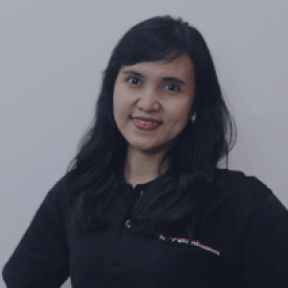
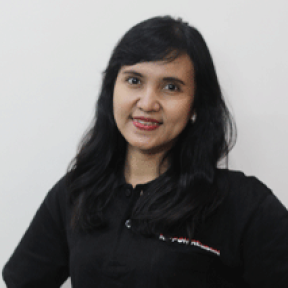
to detail product

diff --git a/src/component/Dealers.js b/src/component/Dealers.js
@@ -37,6 +37,7 @@ function Dealers() {
       telp: "+62315328700",
       address:
         "Jl. Bubutan No.81, Bubutan, Kec. Bubutan, Kota SBY, Jawa Timur 60174",
+      maps: "https://goo.gl/maps/g97nypoWpXNou9AH8",
     },
     {
       logo: icEmpatJaya,
@@ -44,6 +45,7 @@ function Dealers() {
       telp: "+62313521388",
       address:
         "Jl. Dupak No.152 A, Gundih, Kec. Bubutan, Kota SBY, Jawa Timur 60172",
+      maps: "https://g.page/empat-jaya?share",
     },
     {
       logo: icBentang,
@@ -51,6 +53,7 @@ function Dealers() {
       telp: "+628113526178",
       address:
         "Jl. Margomulyo No.46, Greges, Asemrowo, Surabaya City, East Java 60183",
+      maps: "https://g.page/wireropebentangpersada?share",
     },
     {
       logo: icLajuJaya,
@@ -58,6 +61,7 @@ function Dealers() {
       telp: "+62315036015",
       address:
         "Jl. Kapas Krampung No.198-A, Ploso, Kec. Tambaksari, Kota SBY, Jawa Timur 60133",
+      maps: "https://goo.gl/maps/14N7SgekUcZWgEEv8",
     },
   ];
 
@@ -68,6 +72,7 @@ function Dealers() {
       telp: "+62271664997",
       address:
         "Jl. Suryopranoto No.14, Kepatihan Wetan, Kec. Jebres, Kota Surakarta, Jawa Tengah 57129",
+      maps: "https://goo.gl/maps/ZGP5Z9saNdRpJfBz8",
     },
     {
       logo: icMayar,
@@ -75,6 +80,7 @@ function Dealers() {
       telp: "+6281329869226",
       address:
         "Jl. Poncowinatan No.49, Gowongan, Kec. Jetis, Kota Yogyakarta, Daerah Istimewa Yogyakarta 55233",
+      maps: "https://goo.gl/maps/X6R4psocV6xDHpp88",
     },
   ];
 
@@ -85,6 +91,7 @@ function Dealers() {
       telp: "-",
       address:
         "Jl. Pasar Baru, Kertak Baru Ilir, Kec. Banjarmasin Tengah, Banjarmasin, Kalimantan Selatan 70234",
+      maps: "https://goo.gl/maps/jot1FEnQXWgBmS1H7",
     },
     {
       logo: icTools,
@@ -92,6 +99,7 @@ function Dealers() {
       telp: "+625416294516",
       address:
         "Jl. Untung Suropati No.38, Karang Asam Ulu, Kec. Sungai Kunjang, Samarinda, Kalimantan Timur 75243",
+      maps: "https://goo.gl/maps/KpuK5uTY7ihEPeqh9",
     },
     {
       logo: icTokoMulya,
@@ -99,6 +107,7 @@ function Dealers() {
       telp: "+62541741192",
       address:
         "Jl. Gajah Mada No.35, Ps. Pagi, Kec. Samarinda Kota, Kota Samarinda, Kalimantan Timur 75111",
+      maps: "https://goo.gl/maps/7Kw86rVsSiP1XCJE6",
     },
   ];
 
@@ -109,6 +118,7 @@ function Dealers() {
       telp: "+624113616551",
       address:
         "Jl. Dr. Wahidin Sudiro Husodo No.109, Ende, Kec. Wajo, Kota Makassar, Sulawesi Selatan 90156",
+      maps: "https://goo.gl/maps/rWRsuoKx6EMvXA426",
     },
     {
       logo: icTunasBaja,
@@ -116,6 +126,7 @@ function Dealers() {
       telp: "+624113623695",
       address:
         "Jl. Muna No.12, Melayu, Kec. Wajo, Kota Makassar, Sulawesi Selatan 90171",
+      maps: "https://goo.gl/maps/1Qh94orthje3U9oN9",
     },
   ];
   const Bali = [
@@ -125,6 +136,7 @@ function Dealers() {
       telp: "+623619073369",
       address:
         "Jl. Gatot Subroto Barat No.305D, Pemecutan Kaja, Kec. Denpasar Utara, Kota Denpasar, Bali 80111",
+      maps: "https://goo.gl/maps/X371TfsJkArs5Nmr8",
     },
     {
       logo: icYang,
@@ -132,16 +144,17 @@ function Dealers() {
       telp: "+623618495363",
       address:
         "Jl. Mahendradatta Selatan No.99, Padangsambian, Kec. Denpasar Bar., Kota Denpasar, Bali 80119",
+      maps: "https://goo.gl/maps/Xqek9immhP56qxsb9",
     },
   ];
 
-  const toLocation = (props) =>{
-    window.open('https://www.google.co.id/maps/search/'+ props)
-  }
+  const toLocation = (maps) => {
+    window.open(maps);
+  };
 
   return (
     <div>
-      <Header currentPage="Authorized Dealer"/>
+      <Header currentPage="Authorized Dealer" />
       <div className="cover">
         <h1 className="cover-title">Authorized Dealer</h1>
       </div>
@@ -174,8 +187,12 @@ function Dealers() {
                       <div className="item-address">{data.address}</div>
                     </div>
 
-                    <p className="item-location" onClick={() =>toLocation(data.address)}>
-                      Lihat Lokasi Dealer <img src={direction} alt="icon direction"/>
+                    <p
+                      className="item-location"
+                      onClick={() => toLocation(data.maps)}
+                    >
+                      Lihat Lokasi Dealer{" "}
+                      <img src={direction} alt="icon direction" />
                     </p>
                   </Paper>
                 </Grid>
@@ -211,8 +228,12 @@ function Dealers() {
                       <div className="item-address">{data.address}</div>
                     </div>
 
-                    <p className="item-location" onClick={() =>toLocation(data.address)}>
-                      Lihat Lokasi Dealer <img src={direction} alt="icon direction"/>
+                    <p
+                      className="item-location"
+                      onClick={() => toLocation(data.maps)}
+                    >
+                      Lihat Lokasi Dealer{" "}
+                      <img src={direction} alt="icon direction" />
                     </p>
                   </Paper>{" "}
                 </Grid>
@@ -248,9 +269,13 @@ function Dealers() {
                       <div className="item-address">{data.address}</div>
                     </div>
 
-                    <p className="item-location" onClick={() =>toLocation(data.address)}>
+                    <p
+                      className="item-location"
+                      onClick={() => toLocation(data.maps)}
+                    >
                       {" "}
-                      Lihat Lokasi Dealer <img src={direction} alt="icon direction"/>
+                      Lihat Lokasi Dealer{" "}
+                      <img src={direction} alt="icon direction" />
                     </p>
                   </Paper>
                 </Grid>
@@ -286,9 +311,13 @@ function Dealers() {
                       <div className="item-address">{data.address}</div>
                     </div>
 
-                    <p className="item-location" onClick={() =>toLocation(data.address)}>
+                    <p
+                      className="item-location"
+                      onClick={() => toLocation(data.maps)}
+                    >
                       {" "}
-                      Lihat Lokasi Dealer <img src={direction} alt="icon direction"/>
+                      Lihat Lokasi Dealer{" "}
+                      <img src={direction} alt="icon direction" />
                     </p>
                   </Paper>{" "}
                 </Grid>
@@ -324,9 +353,13 @@ function Dealers() {
                       <div className="item-address">{data.address}</div>
                     </div>
 
-                    <p className="item-location" onClick={() =>toLocation(data.address)}>
+                    <p
+                      className="item-location"
+                      onClick={() => toLocation(data.maps)}
+                    >
                       {" "}
-                      Lihat Lokasi Dealer <img src={direction} alt="icon direction"/>
+                      Lihat Lokasi Dealer{" "}
+                      <img src={direction} alt="icon direction" />
                     </p>
                   </Paper>{" "}
                 </Grid>

diff --git a/src/component/Home.js b/src/component/Home.js
@@ -1,7 +1,7 @@
 import React, { useState } from "react";
 import Header from "./Header";
 import Footer from "./Footer";
-import { Grid, makeStyles, Card,} from "@material-ui/core";
+import { Grid, makeStyles, Card } from "@material-ui/core";
 import ArrowForwardIosRoundedIcon from "@material-ui/icons/ArrowForwardIosRounded";
 import ArrowBackIosRoundedIcon from "@material-ui/icons/ArrowBackIosRounded";
 import { Fade } from "react-reveal";
@@ -14,6 +14,7 @@ import borDuduk from "./../img/bor_duduk.png";
 import pakingMesin from "./../img/paking_mesin.png";
 import pakingMesinSquare from "./../img/paking_mesin_square.png";
 import kawatLasSquare from "./../img/kawat_las_square.png";
+import kabelLas from './../img/kabel_las 1.png'
 import BatuPolesSquare from "./../img/batu_poles_square.png";
 import Carousel from "react-material-ui-carousel";
 import icEmpat from "./../img/icEmpat.png";
@@ -22,6 +23,7 @@ import icCentralindo from "./../img/icCentralindo.png";
 import icManyar from "./../img/icManyar.png";
 import icAgung from "./../img/icAgung.png";
 import icSurya from "./../img/icSurya.png";
+import { useHistory } from "react-router-dom";
 
 function Home() {
   const [slideCount, setSlideCount] = useState(0);
@@ -32,19 +34,22 @@ function Home() {
       desc:
         "Paking Gasket TBA adalah sebuah bahan kertas yang terbuat dari kertas khusus gasket tipe cair (Liquid Gasket), oksirne silicone yang bermutu tinggi. Fungsi dari paking gasket TBA adalah untuk mengontrol kebocoran, bukan untuk mencegah seluruh kebocoran ",
       img: pakingMesinSquare,
+      brand: "Klinger",
     },
 
     {
-      name: "Kawat Las",
+      name: "Kabel Las",
       desc:
-        "Produk- produk ROHA mencakup peralatan dan perlengkapan las. Produk ROHA adalah produk berkualitas dengan harga yang sangat terjangkau. \n \n Jajaran produk ROHA terus diperbarui dengan quality control yang tinggi, agar kinerja dan kualitas produk tetap terjaga dan mampu memberikan hasil yang maksimal.",
-      img: kawatLasSquare,
+        "Dengan barisan lengkap produk kabel las yang tahan lama dan dapat diandalkan, kami menyediakan produk yang cocok dihampir seluruh pengguna dan tingkat tekanan. Berbagai pilihan melengkapi dengan fitting yang sama macamnya dan kuat, yang dibuat dengan akurat dan diproduksi menjadi kualitas terbaik. Tersedia dalam berbagai ukuran dan konfigurasi.",
+      img: kabelLas,
+      brand:'Aulektro Deroflex'
     },
     {
       name: "Batu Poles",
       desc:
         "Sebagai produsen terkemuka yang berasal dari Jerman, dalam hal memoles, Langsol telah menjadi produk unggulan untuk pengerjaan permukaan dengan kualitas tinggi seperti logam, coats, dan plastik.  \n Produk ini menyediakan berbagai macam produk yang digunakan untuk memoles berbagai jenis bahan industri, mulai dari bahan stainless stell, alumunium, logam, logam non-ferrous, kayu clear coat hingga logam clear coat.",
       img: BatuPolesSquare,
+      brand: "Langsol",
     },
   ];
 
@@ -103,6 +108,13 @@ function Home() {
         "Kami telah mempercayakan semua kebutuhan konstruksi kami kepada PT UJA sejak dulu karena kualitas yang masih tetap terjaga",
     },
   ];
+  function handleScroll() {
+    window.scroll({
+      top: document.body.offsetHeight,
+      left: 0,
+      behavior: "smooth",
+    });
+  }
 
   return (
     <div>
@@ -124,7 +136,9 @@ function Home() {
                 Taiwan, Australia, Italia dan tidak menutup kemungkinan adanya
                 pemasok dari negara negara lain nantinya
               </p>
-              <p className="cover-call">Hubungi Kami</p>
+              <p className="cover-call" onClick={() => handleScroll()}>
+                Hubungi Kami
+              </p>
             </Fade>
           </Grid>
           <Grid item md={2} sm={6} sx={12}>
@@ -188,15 +202,9 @@ function Home() {
 
       {/* product */}
       <p className="product">Produk Kami</p>
-      {/* <Slide direction="left"> */}
-
-      {/* {product.map((item, i) => ( */}
       <Fade left>
         <ItemProduct item={product[slideCount]} />
       </Fade>
-      {/* // ))} */}
-      {/*  */}
-      {/* </Slide> */}
       <center>
         {slideCount === 0 ? (
           <ArrowBackIosRoundedIcon
@@ -273,6 +281,16 @@ function Home() {
 }
 
 function ItemProduct(props) {
+  let history = useHistory();
+
+  const toProduct = (data) => {
+    console.log(data);
+    history.push({
+      pathname: "/product",
+      state: { brand: data },
+    });
+  };
+
   return (
     <Grid container justify="center" style={{ padding: 20 }}>
       <Grid item md={6} sm={12} xs={12} style={{ textAlign: "center" }}>
@@ -281,7 +299,12 @@ function ItemProduct(props) {
       <Grid item md={6} sm={12} xs={12}>
         <p className="product-title">{props.item.name}</p>
         <p className="product-desc">{props.item.desc}</p>
-        <p className="product-detail">Lihat Detail</p>
+        <p
+          className="product-detail"
+          onClick={() => toProduct(props.item.brand)}
+        >
+          Lihat Detail
+        </p>
       </Grid>
     </Grid>
   );

diff --git a/src/component/Product.js b/src/component/Product.js
@@ -1,4 +1,4 @@
-import React, { useState } from "react";
+import React, { useState, useEffect } from "react";
 import Header from "./Header";
 import Footer from "./Footer";
 import { Grid, Paper, FormControlLabel, Checkbox } from "@material-ui/core";
@@ -38,8 +38,9 @@ import icDownload from "./../img/product/unduh.png";
 import active from "./../img/product/active.png";
 import inactive from "./../img/product/inactive.png";
 
-function Product() {
+function Product(props) {
   const [data, setData] = useState("Aulektro Deroflex");
+
   const kategori = [
     "Aulektro Deroflex",
     "Dormer",
@@ -47,6 +48,16 @@ function Product() {
     "Langsol",
     "Nippon Resibon",
   ];
+
+  useEffect(() => {
+    if (props.history.location.state) {
+      const brand = props.history.location.state.brand;
+      window.scrollTo(0, 0);
+      setData(brand);
+    } else {
+      setData("Aulektro Deroflex");
+    }
+  });
 
   const sekilas_product = [
     {

diff --git a/src/style/Home.css b/src/style/Home.css
@@ -46,9 +46,11 @@
     padding: 20px;
     display: inline;
     border-radius: 40px;
-
 }
 
+.cover-call:hover{
+    cursor: pointer;
+}
 
 .vm-title {
     font-weight: bold;
@@ -124,6 +126,10 @@
     padding: 20px;
     display: inline;
     border-radius: 40px;
+}
+
+.product-detail:hover{
+    cursor: pointer;
 }
 
 .itc {

diff --git a/src/style/About.css b/src/style/About.css
@@ -72,7 +72,7 @@
     transform: scale(1.1);
     overflow: hidden;
     transition: transform .5s ease;
-    opacity: 0.5;
+    opacity: 0.75;
     /* z-index: -1; */
 }
 
